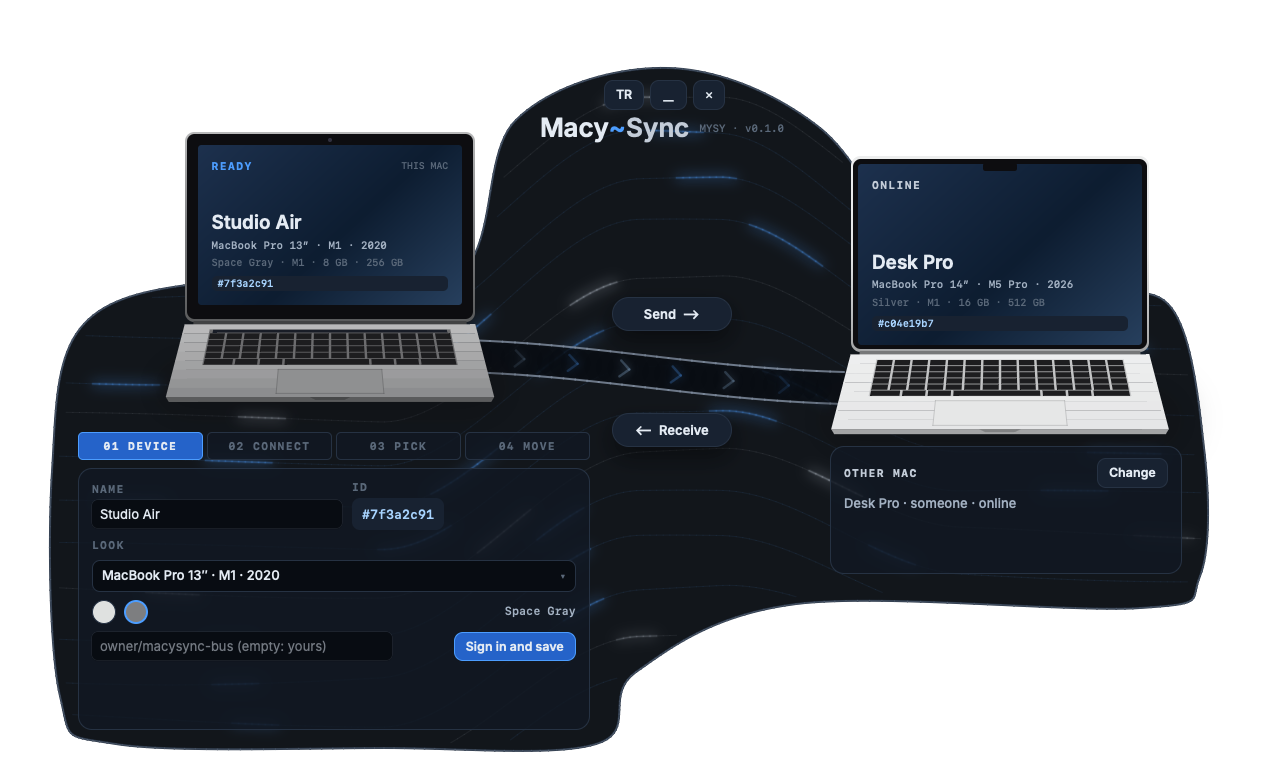
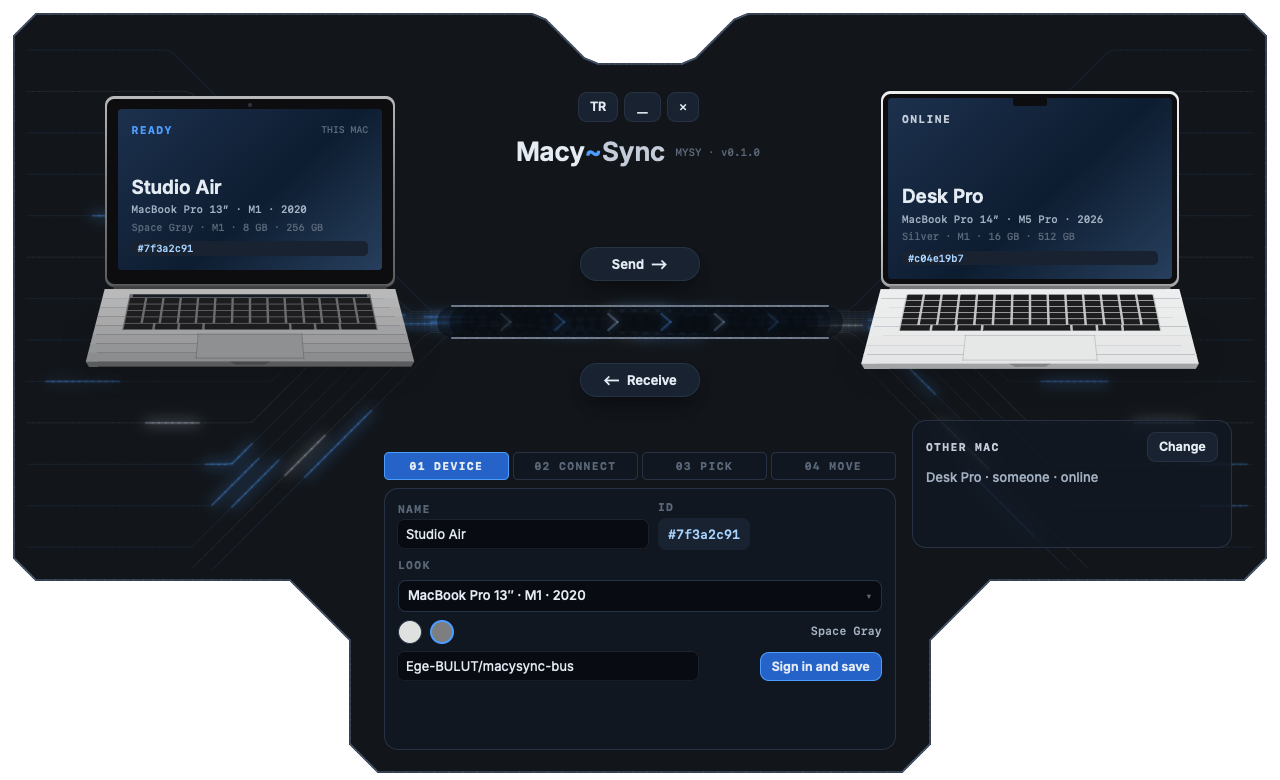
MacySync: a mirror-symmetric window cut at 45 degrees, and background lines that bend like traces
The two lobes and the bridge give way to a mirror-symmetric outline with straight edges: a MacBook's
top edge with its camera notch in the middle, small chamfers at the corners, and the body stepping in
at 45 degrees to a stand that holds the panel. The background lines fan out on both sides alike and
bend at 45 degrees into the conduit between the Macs, as traces into a connector.

The layout gains a sharp flag: straight edges between the outline's points and 45-degree bends in the
lines. The layout editor draws both the same way.

Rune has no clipping, and a blurred glow over the see-through desktop comes out as a bright blob, so a
light near the edge now draws only its thin core, and the outline lights up without a blurred glow.
The title row counts as outside for the lines. The request card's shadow is tighter, so it stays
inside the window at the concave corners. The screenshots in docs/shots show the new window.

diff --git a/tools/layout-editor.html b/tools/layout-editor.html
@@ -225,7 +225,9 @@ function segs(o) {
   const n = o.length, out = [];
   for (let i = 0; i < n; i++) {
     const p0 = o[(i + n - 1) % n], p1 = o[i], p2 = o[(i + 1) % n], p3 = o[(i + 2) % n];
-    out.push([p1, [p1[0] + (p2[0] - p0[0]) / 6, p1[1] + (p2[1] - p0[1]) / 6], [p2[0] - (p3[0] - p1[0]) / 6, p2[1] - (p3[1] - p1[1]) / 6], p2]);
+    // A sharp layout runs straight from point to point, as the app draws it.
+    const [a, b, k] = L.sharp ? [p1, p2, 1 / 3] : [p0, p3, 1 / 6];
+    out.push([p1, [p1[0] + (p2[0] - a[0]) * k, p1[1] + (p2[1] - a[1]) * k], [p2[0] - (b[0] - p1[0]) * k, p2[1] - (b[1] - p1[1]) * k], p2]);
   }
   return out;
 }
@@ -324,12 +326,16 @@ function drawLines() {
   for (let i = 0; i < 15; i++) {
     const o = -1 + 2 * i / 14;
     const yl = f.left.y + o * f.left.spread, yb = f.bridge.y + o * f.bridge.spread, yr = f.right.y + o * f.right.spread;
-    const wob = 4 + 6 * hash(i * 7 + 1), shift = hash(i * 13 + 5) * Math.PI * 2;
-    const sm = (x, a, b) => { const u = Math.min(1, Math.max(0, (x - a) / (b - a))); return u * u * (3 - 2 * u); };
+    const wob = L.sharp ? 0 : 4 + 6 * hash(i * 7 + 1), shift = hash(i * 13 + 5) * Math.PI * 2;
+    // How far a line has moved by dy over the range: smoothly, or at 45 degrees in its middle when the layout is sharp.
+    const bend = (x, [a, b], dy) => {
+      if (L.sharp) return dy * Math.min(1, Math.max(0, (x - (a + b) / 2) / Math.max(1, Math.abs(dy)) + .5));
+      const u = Math.min(1, Math.max(0, (x - a) / (b - a))); return dy * u * u * (3 - 2 * u);
+    };
     let d = "";
     for (let j = 0; j < 200; j++) {
       const x = -20 + 1320 * j / 199;
-      const y = yl + (yb - yl) * sm(x, f.into_bridge[0], f.into_bridge[1]) + (yr - yb) * sm(x, f.into_right[0], f.into_right[1]) + wob * Math.sin(x / 160 + shift);
+      const y = yl + bend(x, f.into_bridge, yb - yl) + bend(x, f.into_right, yr - yb) + wob * Math.sin(x / 160 + shift);
       d += (j ? "L" : "M") + r1(x) + " " + r1(y);
     }
     el("path", { d, fill: "none", stroke: i % 4 === 1 ? "#c3ccd8" : "#4c9dff", "stroke-opacity": .28, "stroke-width": 1.2 }, g);

diff --git a/src/ui.rs b/src/ui.rs
@@ -1,6 +1,8 @@
-//! The launcher: a borderless, see-through window shaped like two lobes and a bridge. This Mac is always on
-//! the left, the other Mac on the right, each drawn as its own MacBook. While files move, the electric lines
-//! run from the sender to the receiver on both Macs.
+//! The launcher: a borderless, see-through window, mirror-symmetric and cut at 45 degrees: a MacBook's top edge
+//! with its camera notch, and a stand under the body that holds the panel. This Mac is always on the left, the
+//! other Mac on the right, each drawn as its own MacBook. The background lines run in from both sides and bend at
+//! 45 degrees into the conduit between them, as traces into a connector; while files move, they run from the
+//! sender to the receiver on both Macs.
 
 use std::collections::HashSet;
 use std::sync::mpsc::{Receiver, Sender, channel};
@@ -46,6 +48,10 @@ pub struct Layout {
     pub elements: Elements,
     pub conduit: [[f32; 2]; 4],
     pub flow: FlowGuide,
+    /// Straight edges between the outline's points, and background lines that bend at 45 degrees, instead of
+    /// smooth curves through them.
+    #[serde(default)]
+    pub sharp: bool,
 }
 
 #[derive(serde::Deserialize, serde::Serialize, Clone, Copy, Debug)]
@@ -732,16 +738,18 @@ fn caps(s: impl Into<String>, c: Color) -> El {
     text(s.into()).font(style(11.0, 700.0).mono().tracking(1.4)).color(c)
 }
 
-/// The outline through the layout's points, smoothed (Catmull-Rom; the editor draws it the same way): a tall
-/// lobe on the left for this Mac, a bridge, and a lower lobe on the right for the other Mac.
+/// The outline through the layout's points: smoothed (Catmull-Rom), or straight from point to point when the layout
+/// is sharp. The editor draws it the same way.
 fn segments() -> Vec<([f32; 2], [f32; 2], [f32; 2], [f32; 2])> {
     let o = &layout().outline;
     let n = o.len();
     (0..n)
         .map(|i| {
             let (p0, p1, p2, p3) = (o[(i + n - 1) % n], o[i], o[(i + 1) % n], o[(i + 2) % n]);
-            let c1 = [p1[0] + (p2[0] - p0[0]) / 6.0, p1[1] + (p2[1] - p0[1]) / 6.0];
-            let c2 = [p2[0] - (p3[0] - p1[0]) / 6.0, p2[1] - (p3[1] - p1[1]) / 6.0];
+            // Sharp: the control points on the straight line, a third of the way in from each end.
+            let ((a, b), k) = if layout().sharp { ((p1, p2), 1.0 / 3.0) } else { ((p0, p3), 1.0 / 6.0) };
+            let c1 = [p1[0] + (p2[0] - a[0]) * k, p1[1] + (p2[1] - a[1]) * k];
+            let c2 = [p2[0] - (b[0] - p1[0]) * k, p2[1] - (b[1] - p1[1]) * k];
             (p1, c1, c2, p2)
         })
         .collect()
@@ -775,8 +783,8 @@ fn depth(poly: &[[f32; 2]], p: [f32; 2]) -> f32 {
 const LINES: usize = 15;
 const SAMPLES: usize = 200;
 
-/// A sampled curve from one lobe to the other, and how deep inside the body each sample is (Rune has no
-/// clipping, so the lines are cut and faded by this).
+/// A sampled curve from one side to the other, and how deep inside the body each sample is, short of the title row
+/// (Rune has no clipping, so the lines are cut and faded by this).
 struct FlowLine {
     pts: Vec<[f32; 2]>,
     depth: Vec<f32>,
@@ -811,26 +819,37 @@ fn flow_lines() -> &'static [FlowLine] {
 
 fn make_flow_lines() -> Vec<FlowLine> {
     let poly: Vec<[f32; 2]> = segments().into_iter().flat_map(|s| (1..=16).map(move |i| bezier(s, i as f32 / 16.0))).collect();
+    // The title row counts as outside: the lines stop short of it, so none runs through the name or the version.
+    let e = &layout().elements;
+    let clear = |p: [f32; 2]| {
+        [e.title, e.controls].iter().map(|r| (r.x - p[0]).max(p[0] - r.x - r.w).max(0.0).hypot((r.y - p[1]).max(p[1] - r.y - r.h).max(0.0)) - 10.0).fold(f32::MAX, f32::min)
+    };
     (0..LINES)
         .map(|i| {
             let o = -1.0 + 2.0 * i as f32 / (LINES - 1) as f32;
-            // They fan out over each lobe and squeeze through the bridge.
+            // They fan out on each side and squeeze through the bridge.
             let f = layout().flow;
             let (yl, yb, yr) = (f.left.y + o * f.left.spread, f.bridge.y + o * f.bridge.spread, f.right.y + o * f.right.spread);
-            let wobble = 4.0 + 6.0 * hash(i as u32 * 7 + 1);
+            let wobble = if layout().sharp { 0.0 } else { 4.0 + 6.0 * hash(i as u32 * 7 + 1) };
             let shift = hash(i as u32 * 13 + 5) * std::f32::consts::TAU;
             let pts: Vec<[f32; 2]> = (0..SAMPLES)
                 .map(|j| {
                     let x = -20.0 + 1320.0 * j as f32 / (SAMPLES - 1) as f32;
-                    let sm = |a: f32, b: f32| {
-                        let t = ((x - a) / (b - a)).clamp(0.0, 1.0);
-                        t * t * (3.0 - 2.0 * t)
+                    // How far the line has moved by `dy` over the range: smoothly, or at 45 degrees in its middle as a
+                    // circuit trace bends.
+                    let bend = |[a, b]: [f32; 2], dy: f32| {
+                        if layout().sharp {
+                            dy * ((x - (a + b) / 2.0) / dy.abs().max(1.0) + 0.5).clamp(0.0, 1.0)
+                        } else {
+                            let t = ((x - a) / (b - a)).clamp(0.0, 1.0);
+                            dy * t * t * (3.0 - 2.0 * t)
+                        }
                     };
-                    let y = yl + (yb - yl) * sm(f.into_bridge[0], f.into_bridge[1]) + (yr - yb) * sm(f.into_right[0], f.into_right[1]) + wobble * (x / 160.0 + shift).sin();
+                    let y = yl + bend(f.into_bridge, yb - yl) + bend(f.into_right, yr - yb) + wobble * (x / 160.0 + shift).sin();
                     [x, y]
                 })
                 .collect();
-            let depth: Vec<f32> = pts.iter().map(|p| depth(&poly, *p)).collect();
+            let depth: Vec<f32> = pts.iter().map(|p| depth(&poly, *p).min(clear(*p))).collect();
             let mut inside = Vec::new();
             let mut from = None;
             for (j, d) in depth.iter().chain([&-1.0]).enumerate() {
@@ -868,12 +887,17 @@ fn backdrop(s: &S) -> Vec<El> {
             if b <= a + 1 {
                 continue;
             }
-            let fade = ((l.depth[a..=b].iter().copied().fold(f32::MAX, f32::min) - 2.0) / 28.0).clamp(0.0, 1.0);
+            // The glow's blur has to end inside the body: over the see-through desktop it comes out as a bright
+            // blob. Near the edge only the thin core is drawn.
+            let near = l.depth[a..=b].iter().copied().fold(f32::MAX, f32::min);
+            let (fade, glow_fade) = (((near - 6.0) / 20.0).clamp(0.0, 1.0), ((near - 26.0) / 24.0).clamp(0.0, 1.0));
             if fade == 0.0 {
                 continue;
             }
             let pts = l.pts[a..=b].to_vec();
-            glow = glow.stroke(pts.clone(), 7.0, Color { a: (0.16 + 0.5 * env) * fade, ..tint });
+            if glow_fade > 0.0 {
+                glow = glow.stroke(pts.clone(), 7.0, Color { a: (0.16 + 0.5 * env) * glow_fade, ..tint });
+            }
             core = core.stroke(pts, 1.6, Color { a: (0.36 + 0.55 * env) * fade, ..tint });
         }
     }
@@ -881,8 +905,9 @@ fn backdrop(s: &S) -> Vec<El> {
     out.push(full(glow).blur(6.0).key("glow"));
     out.push(full(core).blur(0.6).key("core"));
     out.push(full(Shape::new().stroke_path(&body, 2.0, LineCap::Round, EDGE)).key("edge"));
-    out.push(full(Shape::new().stroke_path(&body, 3.0, LineCap::Round, Color { a: 0.26 * env, ..BLUE2 })).blur(9.0).key("outline-glow"));
-    out.push(full(Shape::new().stroke_path(&body, 1.0, LineCap::Round, Color { a: 0.35 + 0.3 * env, ..STEEL })).key("outline-line"));
+    // The outline lights up blue while files move. No blurred glow: Rune's blur over the transparent desktop outside
+    // the body comes out as a hard, oversaturated band.
+    out.push(full(Shape::new().stroke_path(&body, 1.0 + 0.6 * env, LineCap::Round, Color { a: 0.35 + 0.4 * env, ..STEEL.mix(BLUE2, env) })).key("outline-line"));
     out
 }
 
@@ -1438,7 +1463,8 @@ fn incoming(s: &S, r: &Request) -> El {
             "bu Mac'in dosyalarını, ayarlarını ve gizli bilgilerini almak istiyor. Bir şey taşınmadan önce neyi sunacağını sen seçersin."))),
     };
     let card = col().w_full().fill(Color { r: 0.004, g: 0.007, b: 0.013, a: 1.0 }).border(1.0, BLUE).radius(16.0).padding(22.0).gap(12.0)
-        .shadow(30.0, 80.0, Color { r: 0.0, g: 0.0, b: 0.0, a: 0.6 })
+        // A tight shadow: the window is see-through, and a wide one would show past concave edges.
+        .shadow(10.0, 28.0, Color { r: 0.0, g: 0.0, b: 0.0, a: 0.6 })
         .child(caps(s.t("REQUEST", "İSTEK"), BLUE2))
         .child(label(title, 19.0, 700.0, INK))
         .child(label(body, 13.5, 500.0, SOFT).wrap().w_full())
